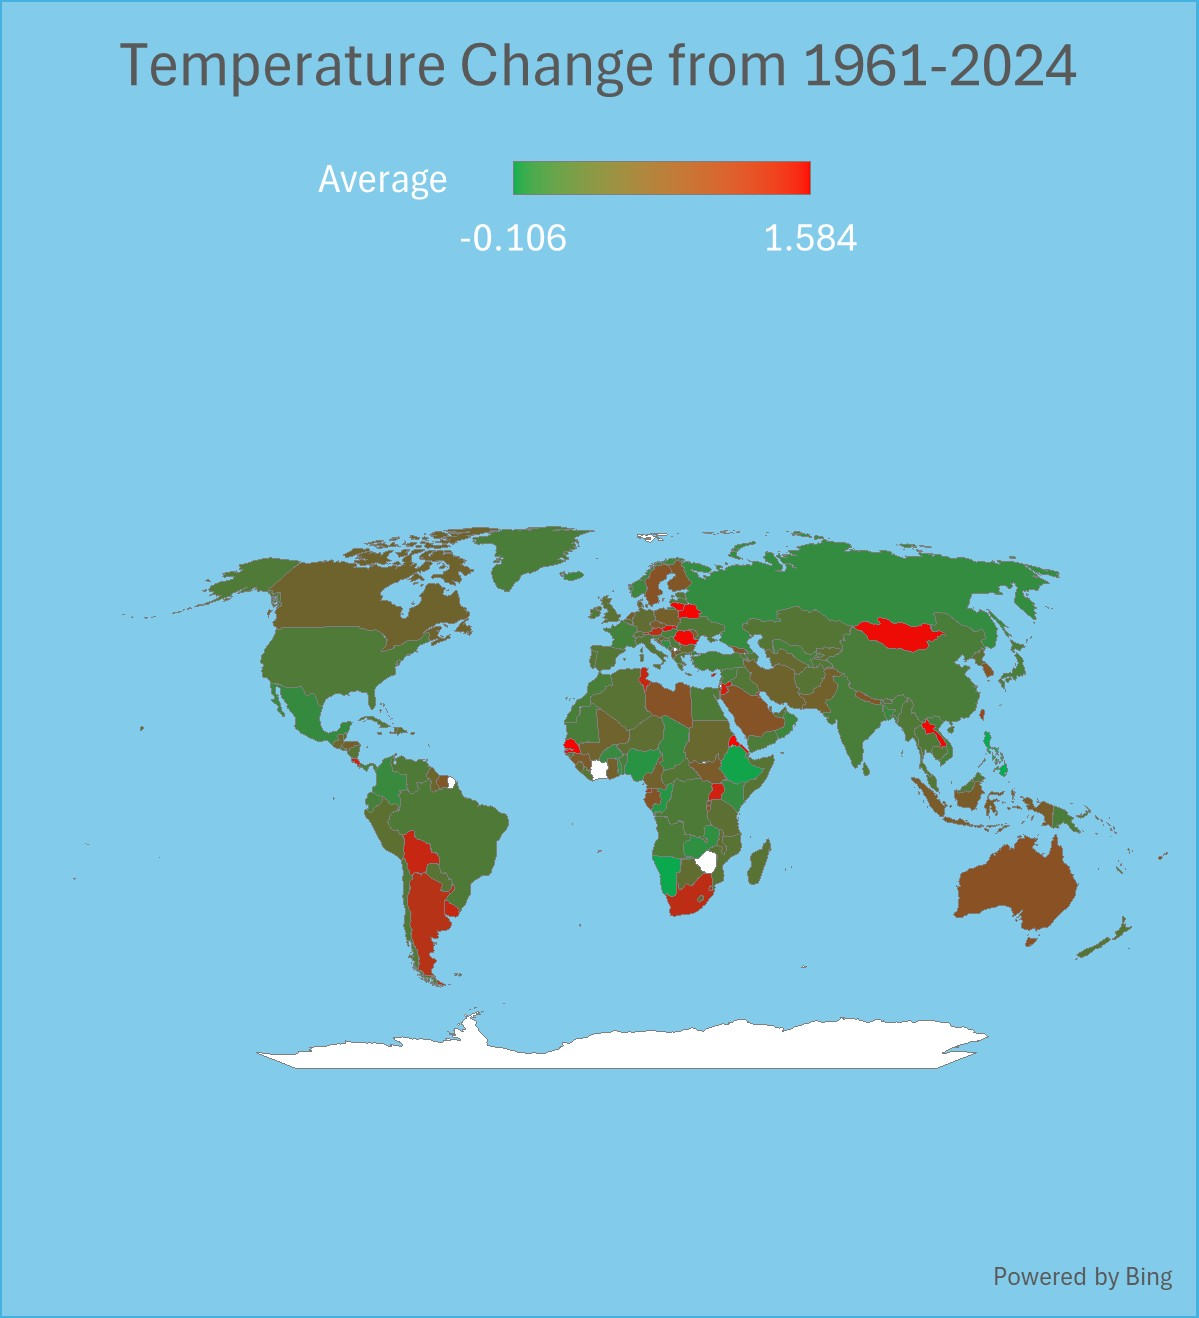
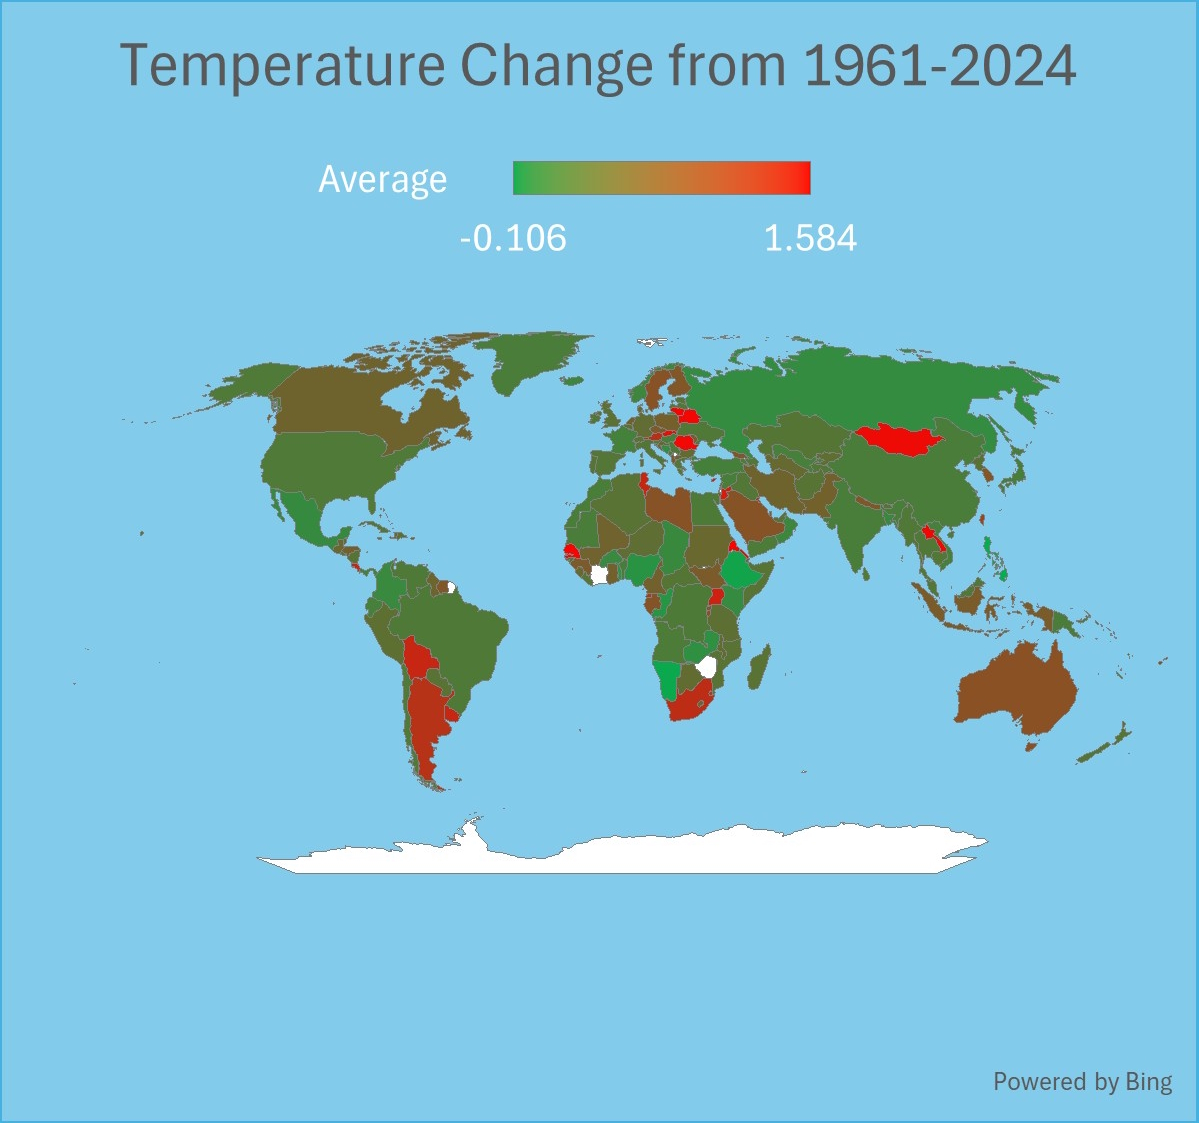
added data to all pages

diff --git a/data/sea-level-ph.html b/data/sea-level-ph.html
@@ -31,6 +31,7 @@
                                     <a href="global-temp">Temperature</a>
                                     <a href="co2">CO2</a>
                                     <a href="sea-level-ph">Sea Level & pH</a>
+                                    <a href="data/relationships.html">Relationships</a>
                                     </div>
                                 </div>
                             </a>
@@ -54,7 +55,7 @@
                 <div class="display-banner-container">
                     <div class="display-banner-all light">
                         <div class="display-banner-text-container-all fly-in">
-                            <h1 class="size-large weight-heavy display-banner-text"><u>Placeholder Title</u></h1>
+                            <h1 class="size-large weight-heavy display-banner-text"><u>Sea level & pH levels</u></h1>
                             <h1 class="size-kinda-small weight-medium">Lorem ipsum dolor sit amet, consectetur adipiscing elit, sed do eiusmod tempor incididunt ut labore. orem ipsum dolor sit amet, consectetur adipiscing elit, sed do eiusmod tempor incididunt ut labore. orem ipsum dolor sit amet, consectetur adipiscing elit, sed do eiusmod tempor incididunt ut labore. orem ipsum dolor sit amet, consectetur adipiscing elit, sed do eiusmod tempor incididunt ut labore. orem ipsum dolor sit amet, consectetur adipiscing elit, sed do eiusmod tempor incididunt ut labore. orem ipsum dolor sit amet, consectetur adipiscing elit, sed do eiusmod tempor incididunt ut labore. orem ipsum dolor sit amet, consectetur adipiscing elit, sed do eiusmod tempor incididunt ut labore.</h1>
                         </div>
                     </div>
@@ -64,42 +65,29 @@
                 <div class="display-banner-container">
                     <div class="display-banner-large dark">
                         <div class="display-banner-text-container fly-in">
-                            <h1 class="size-large weight-heavy display-banner-text"><u>Placeholder Title</u></h1>
-                            <h1 class="size-kinda-small weight-medium">Lorem ipsum dolor sit amet, consectetur adipiscing elit, sed do eiusmod tempor incididunt ut labore. orem ipsum dolor sit amet, consectetur adipiscing elit, sed do eiusmod tempor incididunt ut labore. orem ipsum dolor sit amet, consectetur adipiscing elit, sed do eiusmod tempor incididunt ut labore. orem ipsum dolor sit amet, consectetur adipiscing elit, sed do eiusmod tempor incididunt ut labore.</h1>
+                            <h1 class="size-large weight-heavy display-banner-text"><u>Sea Level Rise</u></h1>
+                            <h1 class="size-kinda-small weight-medium" style="font-size:21.5px;">This graph shows us a significant increase in sea levels in just 20 years, almost 10cm. This is an average rise of 3.6mm per year, which will likely increase given the nature of the exponential growth of CO2 concentrations in the atmosphere. This graph is much less volatile than the others, evidenced by the fact that the general uptrend is easy to decipher even without a trendline. Decreases in sea levels are very rare and do not have much magnitude, whereas the increase in sea levels is prominent. Rising sea levels affect humans living in coastal areas due to the looming threat of coastal inundation and floods. Coastal inundation also destroys coastal animal habitats and upsets their fragile ecosystems. 
+                            </h1>
                         </div>
                     </div>
                     <div class="display-banner-small dark">
-                        <img src="../assets/graphs/co2-ppm.png" class="display-banner-image">
+                        <img src="../assets/graphs/sea-level-rise.png" class="display-banner-image">
                     </div>
                 </div>
             </div>
             <div class="display-banner dark">
                 <div class="display-banner-container">
                     <div class="display-banner-small light">
-                        <img src="../assets/graphs/sea-level-rise.png" class="display-banner-image">
+                        <img src="../assets/graphs/pH-levels.jpg" class="display-banner-image">
                     </div>
                     <div class="display-banner-large light">
                         <div class="display-banner-text-container fly-in">
-                            <h1 class="size-large weight-heavy display-banner-text"><u>Placeholder Title</u></h1>
-                            <h1 class="size-kinda-small weight-medium">Lorem ipsum dolor sit amet, consectetur adipiscing elit, sed do eiusmod tempor incididunt ut labore. orem ipsum dolor sit amet, consectetur adipiscing elit, sed do eiusmod tempor incididunt ut labore. orem ipsum dolor sit amet, consectetur adipiscing elit, sed do eiusmod tempor incididunt ut labore. orem ipsum dolor sit amet, consectetur adipiscing elit, sed do eiusmod tempor incididunt ut labore.</h1>
+                            <h1 class="size-large weight-heavy display-banner-text"><u>pH Rolling Average</u></h1>
+                            <h1 class="size-kinda-small weight-medium" style="font-size:22px;">A rolling yearly average is very useful to interpret this data. It clearly shows a steady decline in ocean pH levels, which means that the oceans are slowly getting more and more acidic. Since 1988, there has been a 0.07 increase in the ocean’s acidity, going from a pH level of 8.1 to 8.04, creating calcification difficulties for marine life that rely on carbonate-based shells and skeletons. This severely damages ocean biodiversity and upsets the fragile food chains and the ecosystems that rely on them. </h1>
                         </div>
                     </div>
                 </div>
             </div>
-            <div class="display-banner light">
-                <div class="display-banner-container">
-                    <div class="display-banner-large dark">
-                        <div class="display-banner-text-container fly-in">
-                            <h1 class="size-large weight-heavy display-banner-text"><u>Placeholder Title</u></h1>
-                            <h1 class="size-kinda-small weight-medium">Lorem ipsum dolor sit amet, consectetur adipiscing elit, sed do eiusmod tempor incididunt ut labore. orem ipsum dolor sit amet, consectetur adipiscing elit, sed do eiusmod tempor incididunt ut labore. orem ipsum dolor sit amet, consectetur adipiscing elit, sed do eiusmod tempor incididunt ut labore. orem ipsum dolor sit amet, consectetur adipiscing elit, sed do eiusmod tempor incididunt ut labore.</h1>
-                        </div>
-                    </div>
-                    <div class="display-banner-small dark">
-                        <img src="../assets/graphs/co2-ppm.png" class="display-banner-image">
-                    </div>
-                </div>
-            </div>
-
         </div>
 
         <div style="padding-bottom: 70px;"></div>

diff --git a/data/relationships.html b/data/relationships.html
@@ -31,6 +31,7 @@
                                     <a href="global-temp">Temperature</a>
                                     <a href="co2">CO2</a>
                                     <a href="sea-level-ph">Sea Level & pH</a>
+                                    <a href="relationships.html">Relationships</a>
                                     </div>
                                 </div>
                             </a>
@@ -64,42 +65,16 @@
                 <div class="display-banner-container">
                     <div class="display-banner-large dark">
                         <div class="display-banner-text-container fly-in">
-                            <h1 class="size-large weight-heavy display-banner-text"><u>Placeholder Title</u></h1>
-                            <h1 class="size-kinda-small weight-medium">Lorem ipsum dolor sit amet, consectetur adipiscing elit, sed do eiusmod tempor incididunt ut labore. orem ipsum dolor sit amet, consectetur adipiscing elit, sed do eiusmod tempor incididunt ut labore. orem ipsum dolor sit amet, consectetur adipiscing elit, sed do eiusmod tempor incididunt ut labore. orem ipsum dolor sit amet, consectetur adipiscing elit, sed do eiusmod tempor incididunt ut labore.</h1>
+                            <h1 class="size-large weight-heavy display-banner-text"><u>Temperature Increase and Sea Level</u></h1>
+                            <h1 class="size-kinda-small weight-medium">The relationship between surface temperature and sea levels is a well-known one. The data clearly shows a proportional relationship between the two variables. When temperature increases, the oceans absorb the excess heat and, as a result, expand volumetrically (increasing sea level heights). The higher surface temperature also speeds up the deposition of running water from melting glaciers into the oceans, also increasing the sea levels.
+                            </h1>
                         </div>
                     </div>
                     <div class="display-banner-small dark">
-                        <img src="../assets/graphs/co2-ppm.png" class="display-banner-image">
+                        <img src="../assets/graphs/temp-and-sl.jpg" class="display-banner-image">
                     </div>
                 </div>
             </div>
-            <div class="display-banner dark">
-                <div class="display-banner-container">
-                    <div class="display-banner-small light">
-                        <img src="../assets/graphs/sea-level-rise.png" class="display-banner-image">
-                    </div>
-                    <div class="display-banner-large light">
-                        <div class="display-banner-text-container fly-in">
-                            <h1 class="size-large weight-heavy display-banner-text"><u>Placeholder Title</u></h1>
-                            <h1 class="size-kinda-small weight-medium">Lorem ipsum dolor sit amet, consectetur adipiscing elit, sed do eiusmod tempor incididunt ut labore. orem ipsum dolor sit amet, consectetur adipiscing elit, sed do eiusmod tempor incididunt ut labore. orem ipsum dolor sit amet, consectetur adipiscing elit, sed do eiusmod tempor incididunt ut labore. orem ipsum dolor sit amet, consectetur adipiscing elit, sed do eiusmod tempor incididunt ut labore.</h1>
-                        </div>
-                    </div>
-                </div>
-            </div>
-            <div class="display-banner light">
-                <div class="display-banner-container">
-                    <div class="display-banner-large dark">
-                        <div class="display-banner-text-container fly-in">
-                            <h1 class="size-large weight-heavy display-banner-text"><u>Placeholder Title</u></h1>
-                            <h1 class="size-kinda-small weight-medium">Lorem ipsum dolor sit amet, consectetur adipiscing elit, sed do eiusmod tempor incididunt ut labore. orem ipsum dolor sit amet, consectetur adipiscing elit, sed do eiusmod tempor incididunt ut labore. orem ipsum dolor sit amet, consectetur adipiscing elit, sed do eiusmod tempor incididunt ut labore. orem ipsum dolor sit amet, consectetur adipiscing elit, sed do eiusmod tempor incididunt ut labore.</h1>
-                        </div>
-                    </div>
-                    <div class="display-banner-small dark">
-                        <img src="../assets/graphs/co2-ppm.png" class="display-banner-image">
-                    </div>
-                </div>
-            </div>
-
         </div>
 
         <div style="padding-bottom: 70px;"></div>

diff --git a/data/co2.html b/data/co2.html
@@ -31,6 +31,7 @@
                                     <a href="global-temp">Temperature</a>
                                     <a href="co2">CO2</a>
                                     <a href="sea-level-ph">Sea Level & pH</a>
+                                    <a href="data/relationships.html">Relationships</a>
                                     </div>
                                 </div>
                             </a>
@@ -64,8 +65,8 @@
                 <div class="display-banner-container">
                     <div class="display-banner-large dark">
                         <div class="display-banner-text-container fly-in">
-                            <h1 class="size-large weight-heavy display-banner-text"><u>Placeholder Title</u></h1>
-                            <h1 class="size-kinda-small weight-medium">Lorem ipsum dolor sit amet, consectetur adipiscing elit, sed do eiusmod tempor incididunt ut labore. orem ipsum dolor sit amet, consectetur adipiscing elit, sed do eiusmod tempor incididunt ut labore. orem ipsum dolor sit amet, consectetur adipiscing elit, sed do eiusmod tempor incididunt ut labore. orem ipsum dolor sit amet, consectetur adipiscing elit, sed do eiusmod tempor incididunt ut labore.</h1>
+                            <h1 class="size-large weight-heavy display-banner-text"><u>CO2 Concentration</u></h1>
+                            <h1 class="size-kinda-small weight-medium" style="font-size: 22px;">The data does not show which countries contributed the most to the levels, but it can still be used to explain rising temperatures and sea levels. The data shows that the CO2 concentrations increase exponentially, evidenced by an R2 value for an exponential trendline exceeding 0.99. Since 1961, the CO2 concentration has risen by 109 ppm. This massive increase in CO2 concentrations is attributed to human emissions, as the delicate balance of the natural greenhouse effect was kept in check by nature in positive and negative feedback loops.</h1>
                         </div>
                     </div>
                     <div class="display-banner-small dark">
@@ -73,35 +74,7 @@
                     </div>
                 </div>
             </div>
-            <div class="display-banner dark">
-                <div class="display-banner-container">
-                    <div class="display-banner-small light">
-                        <img src="../assets/graphs/sea-level-rise.png" class="display-banner-image">
-                    </div>
-                    <div class="display-banner-large light">
-                        <div class="display-banner-text-container fly-in">
-                            <h1 class="size-large weight-heavy display-banner-text"><u>Placeholder Title</u></h1>
-                            <h1 class="size-kinda-small weight-medium">Lorem ipsum dolor sit amet, consectetur adipiscing elit, sed do eiusmod tempor incididunt ut labore. orem ipsum dolor sit amet, consectetur adipiscing elit, sed do eiusmod tempor incididunt ut labore. orem ipsum dolor sit amet, consectetur adipiscing elit, sed do eiusmod tempor incididunt ut labore. orem ipsum dolor sit amet, consectetur adipiscing elit, sed do eiusmod tempor incididunt ut labore.</h1>
-                        </div>
-                    </div>
-                </div>
-            </div>
-            <div class="display-banner light">
-                <div class="display-banner-container">
-                    <div class="display-banner-large dark">
-                        <div class="display-banner-text-container fly-in">
-                            <h1 class="size-large weight-heavy display-banner-text"><u>Placeholder Title</u></h1>
-                            <h1 class="size-kinda-small weight-medium">Lorem ipsum dolor sit amet, consectetur adipiscing elit, sed do eiusmod tempor incididunt ut labore. orem ipsum dolor sit amet, consectetur adipiscing elit, sed do eiusmod tempor incididunt ut labore. orem ipsum dolor sit amet, consectetur adipiscing elit, sed do eiusmod tempor incididunt ut labore. orem ipsum dolor sit amet, consectetur adipiscing elit, sed do eiusmod tempor incididunt ut labore.</h1>
-                        </div>
-                    </div>
-                    <div class="display-banner-small dark">
-                        <img src="../assets/graphs/co2-ppm.png" class="display-banner-image">
-                    </div>
-                </div>
-            </div>
-
         </div>
-
         <div style="padding-bottom: 70px;"></div>
         
         <div class="footer dark">

diff --git a/data/global-temp.html b/data/global-temp.html
@@ -31,6 +31,7 @@
                                     <a href="global-temp">Temperature</a>
                                     <a href="co2">CO2</a>
                                     <a href="sea-level-ph">Sea Level & pH</a>
+                                    <a href="data/relationships.html">Relationships</a>
                                     </div>
                                 </div>
                             </a>
@@ -47,7 +48,7 @@
         <div class="content">
             <div class="welcome">
                 <div class="box fly-in">
-                    <h1 class="h weight-very-heavy"><u>Global Temperature</u></h1>
+                    <h1 class="h weight-very-heavy"><u>Temperature Change</u></h1>
                 </div>
             </div>
             <div class="display-banner dark">
@@ -64,12 +65,27 @@
                 <div class="display-banner-container">
                     <div class="display-banner-large dark">
                         <div class="display-banner-text-container fly-in">
-                            <h1 class="size-large weight-heavy display-banner-text"><u>Placeholder Title</u></h1>
-                            <h1 class="size-kinda-small weight-medium">Lorem ipsum dolor sit amet, consectetur adipiscing elit, sed do eiusmod tempor incididunt ut labore. orem ipsum dolor sit amet, consectetur adipiscing elit, sed do eiusmod tempor incididunt ut labore. orem ipsum dolor sit amet, consectetur adipiscing elit, sed do eiusmod tempor incididunt ut labore. orem ipsum dolor sit amet, consectetur adipiscing elit, sed do eiusmod tempor incididunt ut labore.</h1>
+                            <h1 class="size-large weight-heavy display-banner-text"><u>Temperature Increase</u></h1>
+                            <h1 class="size-kinda-small weight-medium" style = "font-size: 22.5px;">The Global Mean Surface Temperature (GMST) fluctuates quite variably on a yearly frame of reference, and this characteristic of GMST is often sensationalised in the media. Due to the volatility of GMST, data over short periods does not convey valuable information. This graph shows us the general trend of GMST from 1961 to 2021. The general trend is an increase in GMST as temperature increases are more frequent and have a more significant magnitude year over year. If this trend continues, we will be looking at a GMST increase of ≅1.83℃ by the year 2050. 
+                            </h1>
                         </div>
                     </div>
                     <div class="display-banner-small dark">
-                        <img src="../assets/graphs/global-temp-WG.jpg" class="display-banner-image" style = "width: 350;height:378">
+                        <img src="../assets/graphs/temp-increase.png" class="display-banner-image">
+                    </div>
+                </div>
+            </div>
+            <div class="display-banner dark">
+                <div class="display-banner-container">
+                    <div class="display-banner-small light">
+                        <img src="../assets/graphs/global-temp-WG.jpg" class="display-banner-image">
+                    </div>
+                    <div class="display-banner-large light">
+                        <div class="display-banner-text-container fly-in">
+                            <h1 class="size-large weight-heavy display-banner-text"><u>Heatmap</u></h1>
+                            <h1 class="size-kinda-small weight-medium" style="font-size:21px;">This is a heatmap of each country’s average temperature change based on pre-industrialisation levels. Across all countries with data, there was an average increase of 1.382°c from 1961 to 2022, with the lowest value being -2.062°c in Greenland in 1983 and the highest being 3.691°c in Russia in 2020. The data shows that every country had an increasing annual average temperature. The country with the least increase was the Pitcairn Islands, with a decrease of -0.106°c. The country with the most significant growth was Luxembourg, with 1.584°c. This data is used to understand the global trends in temperature change and find the most important contributors to this increase in temperature.
+                            </h1>
+                        </div>
                     </div>
                 </div>
             </div>

diff --git a/index.html b/index.html
@@ -66,7 +66,7 @@
                 <div class="display-banner-container">
                     <div class="display-banner-large light">
                         <div class="display-banner-text-container fly-in">
-                            <a href="data/global-temp.html">
+                            <a href="data/global-temp.html" style="width:350px;height:387px;">
                             <h1 class="size-large weight-heavy display-banner-text" style="color:black"><u>Change in Temperature</u></h1>
                             </a>
                             <h1 class="weight-medium" style = "font-size: 22.5px;">The Global Mean Surface Temperature (GMST) fluctuates quite variably on a yearly frame of reference, and this characteristic of GMST is often sensationalised in the media. Due to the volatility of GMST, data over short periods does not convey valuable information. This graph shows us the general trend of GMST from 1961 to 2021. The general trend is an increase in GMST as temperature increases are more frequent and have a more significant magnitude year over year. If this trend continues, we will be looking at a GMST increase of ≅1.83℃ by the year 2050. 
@@ -117,8 +117,19 @@
             </div>
 
         </div>
+        <div style="padding-bottom: 70px;"></div>
         
-        <div style="display: block; padding-top: 500px;"></div>
+        <div class="footer dark">
+            <div class="footer-above">
+                <a href="../" target="_self"><img src="../assets/logo.png" class="footer-logo"></a>
+                <div class="title">
+                    <h1 class="weight-heavy size-medium unselectable">Climate Company 32</h1>
+                </div>
+            </div>
+            <div class="footer-below">
+                <h1 class="weight-light size-small">Copyright 2025 | © Climate Company 32. All Rights Reserved.</h1>
+            </div>
+        </div>       
     
         <script src="script.js"></script>
     </body>
